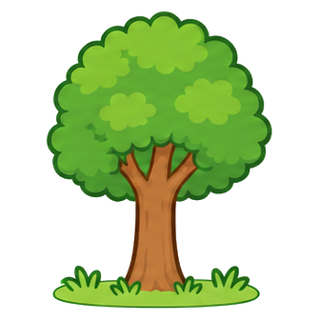
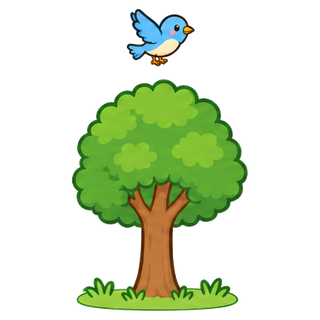
みちつなぎ: まっすぐな道の180/270度回転で判定が壊れていたのを修正。はんたいことばの絵8枚追加
Claude-Session: https://claude.ai/code/session_01FZu76SbzasG9BssvDrYET1

diff --git a/road.html b/road.html
@@ -48,7 +48,8 @@
   // 方向: 0=上 1=右 2=下 3=左。タイル種: straight(上下) / curve(上と右)。rot で回す
   const DIRS = [[0, -1], [1, 0], [0, 1], [-1, 0]];
   const state = { n: 3, tiles: [], start: null, goal: null, solved: false, score: Baby.getLevel() };
-  const opens = (t) => t.type === 'straight' ? [t.rot % 2, (t.rot + 2) % 4] : [t.rot % 4, (t.rot + 1) % 4];
+  // まっすぐ: 回転 0/2 で上下、1/3 で左右。カーブ: 回転 r で「r と r+1 の方向」が開く
+  const opens = (t) => t.type === 'straight' ? [t.rot % 2, t.rot % 2 + 2] : [t.rot % 4, (t.rot + 1) % 4];
 
   function generate() {
     const n = state.n;

diff --git a/tools/split_sheet.py b/tools/split_sheet.py
@@ -106,6 +106,7 @@ def main():
     ap.add_argument("--cols", type=int, default=3); ap.add_argument("--rows", type=int, default=2)
     ap.add_argument("--size", type=int, default=512, help="出力の一辺(px)")
     ap.add_argument("--keep-bg", action="store_true", help="白背景を透過にしない")
+    ap.add_argument("--keep-all", action="store_true", help="離れたパーツも残す（複数の要素からなる絵）")
     a = ap.parse_args()
     sheet = Image.open(a.sheet).convert("RGBA")
     W, H = sheet.size
@@ -116,7 +117,9 @@ def main():
         r, c = divmod(i, a.cols)
         cell = sheet.crop((int(c * cw), int(r * ch), int((c + 1) * cw), int((r + 1) * ch)))
         if not a.keep_bg:
-            cell = trim(keep_main_blob(knockout_white(cell)))
+            cell = knockout_white(cell)
+            if not a.keep_all: cell = keep_main_blob(cell)
+            cell = trim(cell)
         cell = cell.resize((a.size, a.size), Image.LANCZOS)
         path = f"{a.outdir}/{name}.png"
         cell.save(path, optimize=True)

diff --git a/tools/word_images.py b/tools/word_images.py
@@ -161,7 +161,7 @@ def split(n, path, opp=False):
     else:
         items = WORDS[n * PER:(n + 1) * PER]; names = [w[1] for w in items]; out = os.path.join(here, '..', 'assets', 'words'); cols, rows = 5, (len(items) + 4) // 5
     os.makedirs(out, exist_ok=True)
-    subprocess.check_call([sys.executable, os.path.join(here, 'split_sheet.py'), path, out, *names, '--cols', str(cols), '--rows', str(rows), '--size', '320'])
+    subprocess.check_call([sys.executable, os.path.join(here, 'split_sheet.py'), path, out, *names, '--cols', str(cols), '--rows', str(rows), '--size', '320'] + (['--keep-all'] if opp else []))
 
 if __name__ == '__main__':
     cmd = sys.argv[1]
